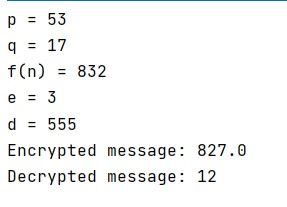
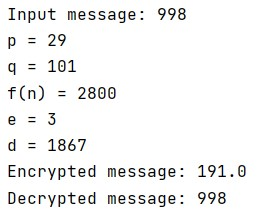
Update lab5

diff --git a/Lab5/src/main/java/RSA.java b/Lab5/src/main/java/RSA.java
@@ -6,8 +6,10 @@ public class RSA {
 
     public static void main(String[] args) {
 
-        int msg = 12;
         Random random = new Random();
+
+        int input = 998;
+        System.out.println("Input message: " + input);
 
         int n, f, d = 0, e, i;
 
@@ -46,7 +48,7 @@ public class RSA {
         }
         System.out.println("d = " + d);
 
-        double enc = Math.pow(msg, e) % n;
+        double enc = Math.pow(input, e) % n;
         System.out.println("Encrypted message: " + enc);
 
         BigInteger N = BigInteger.valueOf(n);
